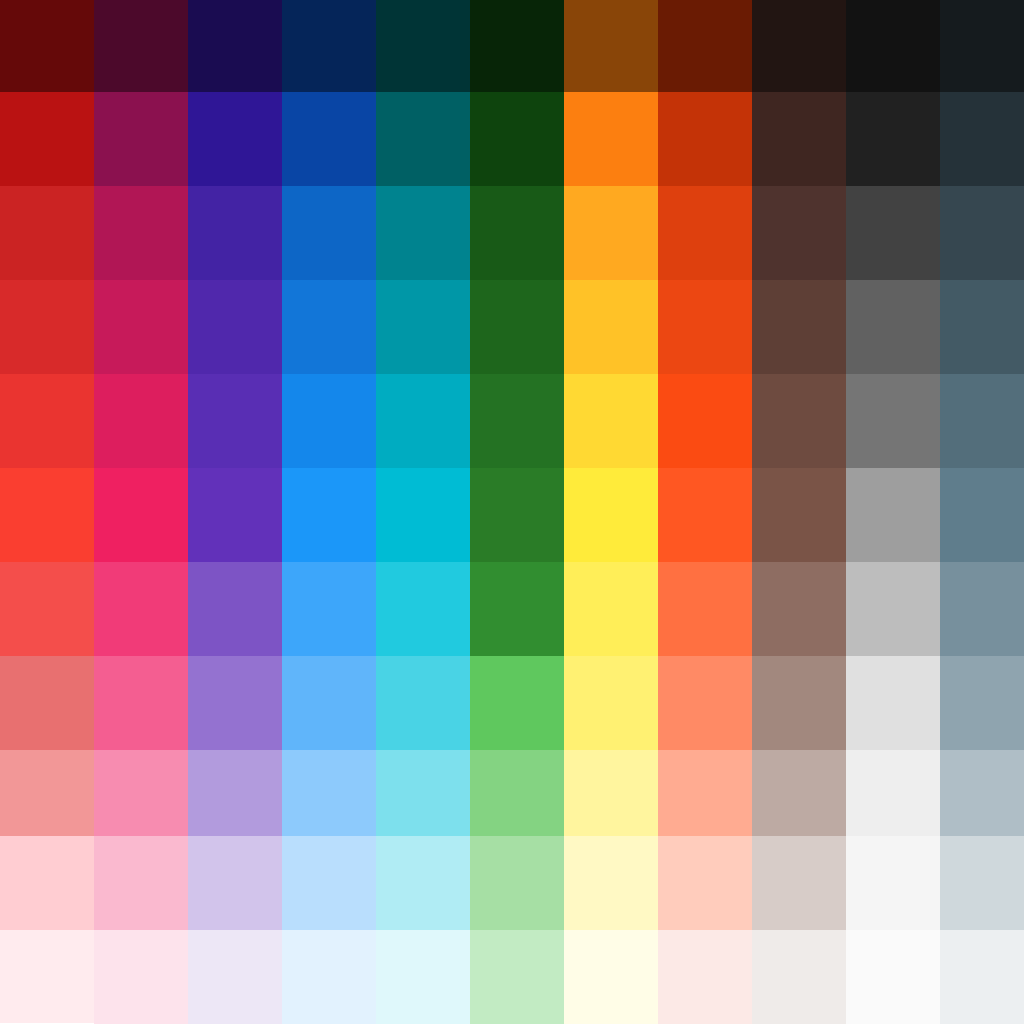
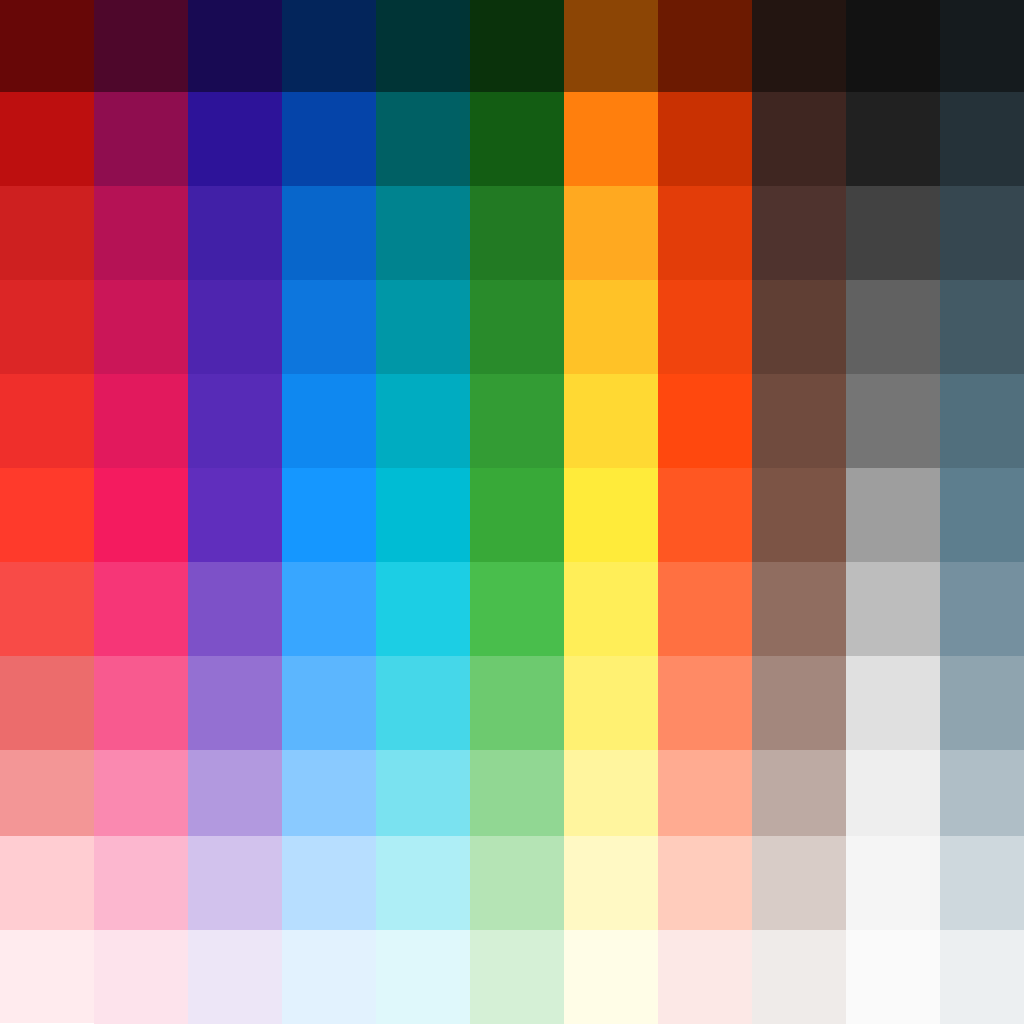
Farm and village look: lighter and cheerful, halfway between the fresh look of before and the painted valley of 6 Oct
Players found yesterday's look too dark, and the owner wants the game to look fun and cheerful: the old colours were nicer but a
little flat, yesterday's too strong and too dark. Exposure 1.32 and a bright sky (1.95) with a slightly warmer sun a little lower
than before (3.45 at y 20), so the shade stays soft; daylight.js keeps the morning and evening rhythm in the same spirit. The grass
keeps its fresh green, a touch lighter, with mottling 1.4 times the old spread (1.8 was too much). palette.png: the original graded
half as strongly as yesterday, then livelier (saturation x1.08, darker greens lighter), raw pixel values, version 20261007; the
village's palette the same way, and its meadow and lake tuned to match the farm. Sandier roads and a bluer pond, halfway from the
old ones. The mood layer keeps only a faint haze and the computer-only edge blur: no dark corners.

Changed region(s): [[0.4375, 0.0625, 0.5625, 0.6562]]

diff --git a/public/game.js b/public/game.js
@@ -214,12 +214,12 @@ async function addScenery(){
   buildScenery({scene,models,mobile:mobileLayout.matches});clearPropsFromMountains();renderer.shadowMap.needsUpdate=true;shootMinimap();
  }catch(error){console.warn('The extra scenery was skipped.',error);}
 }
-// The roads (6 Oct 2026): warm sand, like the paths of the loading screen's painted valley, instead of the pink of the shared
-// palette; one tinted copy of the material for every road, so the pink pigs and flowers keep the palette as it is.
+// The roads (6 Oct 2026, softer on 7 Oct): a warmer, sandier pink, towards the paths of the loading screen's painted valley; one
+// tinted copy of the material for every road, so the pink pigs and flowers keep the palette as it is.
 const roadMaterials=new Map();
 function roadMaterial(material){
  let road=roadMaterials.get(material);
- if(!road){road=material.clone();road.color.setRGB(.88,.74,.58);roadMaterials.set(material,road);}
+ if(!road){road=material.clone();road.color.setRGB(.94,.87,.79);roadMaterials.set(material,road);}
  return road;
 }
 function cloneModel(name,x,z,{width,height,depth,scale=1,rotation=0,y=0}={}){
@@ -274,14 +274,14 @@ function decorate(){
  // Layout zones (public/farm-layout.js): each yard moves as one piece, the fields stay where they are.
  zone('fields');
  // Fresh grass green, wide enough that its edge is never in view: it runs on into the haze however far you pan or zoom out.
- // Set for the warmer, lower sun of 6 Oct 2026 so it looks the same green as before (scene-polish.js adds 7% and the mottling).
- const ground=patch(0,0,600,600,0x8ebf62,0);ground.name='Farm ground';
+ // Set for the light of 7 Oct 2026: the fresh green of before, a touch lighter (scene-polish.js adds 7% and the mottling).
+ const ground=patch(0,0,600,600,0x8cbc58,0);ground.name='Farm ground';
  // The crossing paths keep the four parts of the farm easy to read from the fixed camera.
  zone('exact');
  for(const road of ROADS.slice(0,3))cloneModel('road_001',road.x,road.z,{...roadSize(road),height:road.height,y:road.y});
- zone('fields');patch(2.575,14.4,12.8,31.7,0xaaca6a,.004).name='Crop meadow';
- zone('coop');patch(13,-9.5,15.8,11.6,0xa9bb78,.007);
- zone('mill');patch(-12.5,5.3,8.7,13,0xadbd7c,.004);
+ zone('fields');patch(2.575,14.4,12.8,31.7,0xa3be65,.004).name='Crop meadow';
+ zone('coop');patch(13,-9.5,15.8,11.6,0xa4b472,.007);
+ zone('mill');patch(-12.5,5.3,8.7,13,0xa8b676,.004);
  // Buildings, vehicles and all plants below come from the supplied GLB pack.
  zone('dairy');addBuilding('dairy',-1,-13.2,{width:6.8,rotation:Math.PI/2});
  zone('silo');addUtility('silo','tower_002',5.6,-11.8,{height:6.6});
@@ -1192,22 +1192,23 @@ async function init(){
  try{
   bindUI();updateUI();
   renderer=new THREE.WebGLRenderer({antialias:!mobileLayout.matches,alpha:false,powerPreference:mobileLayout.matches?'low-power':'high-performance'});
-  renderer.setClearColor(0xdfeee2);renderer.outputColorSpace=THREE.SRGBColorSpace;renderer.toneMapping=THREE.NeutralToneMapping;renderer.toneMappingExposure=1.22;
+  renderer.setClearColor(0xdeede6);renderer.outputColorSpace=THREE.SRGBColorSpace;renderer.toneMapping=THREE.NeutralToneMapping;renderer.toneMappingExposure=1.32;
   renderer.shadowMap.enabled=true;renderer.shadowMap.type=THREE.PCFSoftShadowMap;renderer.shadowMap.autoUpdate=false;
   world.appendChild(renderer.domElement);renderer.domElement.setAttribute('aria-label','Interactive farm. Use Tab to move between fields, and Enter to work a field.');
   renderer.domElement.addEventListener('webglcontextlost',e=>{e.preventDefault();ready=false;$('error-message').textContent='The 3D view was interrupted. Reload to return to your saved farm.';$('error').hidden=false;});
   scene=new THREE.Scene();camera=new THREE.OrthographicCamera(-25,25,17,-17,.1,300);   // far enough for the mountains at the edge when zoomed out
-  // Daylight with depth (6 Oct 2026, like the loading screen's painted valley): a soft sky, a warm sun a little lower than before
-  // for longer shadows, and less fill from the sky so the shade reads; the grass keeps its fresh green (the old warm-yellow sky,
-  // sun and haze made the whole valley beige, so the haze stays a light green-white). daylight.js moves it through the day.
-  const hemi=new THREE.HemisphereLight(0xd3e6ff,0x7f8a3a,1.5);scene.add(hemi);
-  const sun=new THREE.DirectionalLight(0xffd9a3,3.95);sun.position.set(-26,18,14);sun.castShadow=true;sun.shadow.mapSize.set(mobileLayout.matches?1024:2048,mobileLayout.matches?1024:2048);sun.shadow.camera.left=-52;sun.shadow.camera.right=52;sun.shadow.camera.top=52;sun.shadow.camera.bottom=-52;sun.shadow.camera.near=1;sun.shadow.camera.far=125;sun.shadow.normalBias=.035;sun.shadow.bias=-.00012;sun.shadow.radius=3;scene.add(sun);scene.add(sun.target);
+  // Sunny, cheerful daylight (7 Oct 2026: the farm should look fun and cheerful; halfway between the fresh light of before and the
+  // painted valley of the loading screen): a bright sky, a slightly warmer sun a little lower than before for longer, soft shadows
+  // (the old warm-yellow sky, sun and haze made the whole valley beige, so the haze stays a light green-white). daylight.js moves it
+  // through the day.
+  const hemi=new THREE.HemisphereLight(0xdcebff,0x778b40,1.95);scene.add(hemi);
+  const sun=new THREE.DirectionalLight(0xffe3b7,3.45);sun.position.set(-26,20,14);sun.castShadow=true;sun.shadow.mapSize.set(mobileLayout.matches?1024:2048,mobileLayout.matches?1024:2048);sun.shadow.camera.left=-52;sun.shadow.camera.right=52;sun.shadow.camera.top=52;sun.shadow.camera.bottom=-52;sun.shadow.camera.near=1;sun.shadow.camera.far=125;sun.shadow.normalBias=.035;sun.shadow.bias=-.00012;sun.shadow.radius=3;scene.add(sun);scene.add(sun.target);
   cropMotion=createCropMotion({scene,reducedMotion});
-  scene.fog=new THREE.Fog(0xdfeee2,60,150);
+  scene.fog=new THREE.Fog(0xdeede6,60,150);
   let loaded=0;
   if(villageWorld){
    // The village is three times as wide as the farm: fog further out, and the sun's shadows over all of it.
-   scene.fog=new THREE.Fog(0xdfeee2,105,180);sun.position.multiplyScalar(3);sun.shadow.camera.left=sun.shadow.camera.bottom=-95;sun.shadow.camera.right=sun.shadow.camera.top=95;sun.shadow.camera.far=320;sun.shadow.camera.updateProjectionMatrix();
+   scene.fog=new THREE.Fog(0xdeede6,105,180);sun.position.multiplyScalar(3);sun.shadow.camera.left=sun.shadow.camera.bottom=-95;sun.shadow.camera.right=sun.shadow.camera.top=95;sun.shadow.camera.far=320;sun.shadow.camera.updateProjectionMatrix();
    // The same shadow map over almost twice the width makes each shadow texel twice as big (0.09 units, 0.19 on phones): the farm's
    // normal bias (.035) left stripes over the rocks, walls and roofs (shadow acne). 1.3 texels of it (Oct 2026): .12, .24 on phones.
    sun.shadow.normalBias=1.3*190/sun.shadow.mapSize.x;

diff --git a/public/village-scene.js b/public/village-scene.js
@@ -23,18 +23,21 @@ export const VILLAGE_UTILITIES=Object.freeze({
 // The cloud shadows' sheet (farm-atmosphere.js) just above the village's highest ground (hills to 12.7, rocks and trees to 15.7), so
 // the clouds drift over the whole valley; on the farm's height (.28) it lay under the hills. Only the mountain tops rise through it.
 export const VILLAGE_CLOUD_HEIGHT=16;
-// The look of the loading screen's painted village (6 Oct 2026): fresh green meadows, deeper trees and a clear blue lake.
+// The look of the loading screen's painted village (6 Oct 2026): fresh green meadows, deeper trees and a clear blue lake; since
+// 7 Oct 2026 as sunny and cheerful as the farm (its light, its palette grade: livelier trees, and a lighter blue lake).
 // The pack's hills and the grass edges of its paths sit on the seam between a green and a yellow cell of the palette (564 of
 // 1024 px across, the cells are 94 px), so the texture filter painted them two-fifths yellow: the lime meadows. They now read
 // the palette's white cell and carry their green in the vertex colours, times the baked shade, one green per row of the pack's
 // greens (row 4 its deepest, 7 its lightest). Nothing else in the village reads that seam.
-// The greens are the farm's grass (6 Oct 2026): the sunlit meadow renders like the farm's lit grass in the same light (about
-// #98c14e, hue 81, on desktop and phone), one valley; the pack's own greens made a saturated golf-course green (hue 97) beside
-// it. Lighter than the farm's ground colour (game.js), as the baked shade darkens them again; the trees stay the deeper green.
-export const VILLAGE_GRASS=Object.freeze({4:0x83bb5c,5:0x96cb66,6:0xabd574,7:0xbedf83});
+// The greens are the farm's grass: the sunlit meadow renders like the farm's lit grass in the same light, one valley; the pack's
+// own greens made a saturated golf-course green (hue 97) beside it. Set again for the farm's sunny light of 7 Oct 2026: at noon
+// the meadow renders #a3d259 (hue 83, lightness .59) against the farm's #a1d253 (hue 83, .58), on phones #a1d058 against #a1cf5b.
+// Lighter than the farm's ground colour (game.js), as the baked shade darkens them again; the trees keep the palette's green.
+export const VILLAGE_GRASS=Object.freeze({4:0x82b656,5:0x95c560,6:0xaacf6d,7:0xbcd97b});
 // The mountains' haze is the farm's (scene-polish.js, 0xe2ead0) since 6 Oct 2026, so both worlds' mountains fade into the same
-// air: the cool sky white before it faded them toward blue against the valley's green-white sky.
-export const VILLAGE_LAKE=0x2898f2,VILLAGE_HAZE=0xe2ead0;
+// air: the cool sky white before it faded them toward blue against the valley's green-white sky. The lake (7 Oct 2026) is halfway
+// between the pack's pale cyan (0x80deea) and the clear blue of 6 Oct (0x2898f2), as the farm's pond went from mint to 0x4eb1d2.
+export const VILLAGE_LAKE=0x54bbee,VILLAGE_HAZE=0xe2ead0;
 const PALETTE_PX=1024,CELL=94,SEAM=564,WHITE=[893/PALETTE_PX,982/PALETTE_PX];
 const grassTints=new Map(Object.entries(VILLAGE_GRASS).map(([row,hex])=>[Number(row),new THREE.Color(hex)]));   // linear, as vertex colours are
 function freshGrass(g){
@@ -54,8 +57,8 @@ export async function loadVillage({onProgress}={}){
   loader.loadAsync('/assets/village/village.glb',event=>{if(event.total)onProgress?.(event.loaded/event.total);}),
   fetch('/assets/village/village-layout.json').then(r=>{if(!r.ok)throw new Error('The village could not load.');return r.json();}),
   // village.glb carries its own copy of the pack's palette; the village paints from village-palette.png instead (6 Oct 2026),
-  // the one its props on the farm use, graded like the farm's palette (deeper greens) and versioned past a day-old cache. Without
-  // it the village keeps its own copy.
+  // the one its props on the farm use, graded like the farm's palette (7 Oct 2026: livelier greens, a touch fuller colours) and
+  // versioned past a day-old cache. Without it the village keeps its own copy.
   new THREE.ImageLoader().loadAsync(`/assets/models/village-palette.png?v=${PALETTE_VERSION}`).catch(()=>null)
  ]);
  if(palette){const maps=new Set();gltf.scene.traverse(o=>{if(o.isMesh&&o.material.map)maps.add(o.material.map);});for(const map of maps){map.image?.close?.();map.image=palette;map.needsUpdate=true;}}
@@ -69,7 +72,7 @@ export async function loadVillage({onProgress}={}){
   if(s){const c=new Uint8Array(s.count*4);for(let i=0;i<s.count;i++){c[i*4]=c[i*4+1]=c[i*4+2]=Math.round(s.getX(i)*255);c[i*4+3]=255;}g.setAttribute('color',new THREE.BufferAttribute(c,4,true));g.deleteAttribute('_shade');freshGrass(g);}
   o.material.roughness=1;o.material.metalness=0;o.material.vertexColors||=Boolean(g.getAttribute('color'));
   // The pack's water (its "Transparent" material: the lake and the stream down the mountains) was the palette's pale cyan at half
-  // strength, a milky green over the lake bed: now a clear blue with a little of the sun on it, like the farm's pond.
+  // strength, a milky green over the lake bed: now a sunny blue with a little of the sun on it, like the farm's pond.
   if(o.material.name==='Transparent'){o.material.map=null;o.material.color.setHex(VILLAGE_LAKE);o.material.opacity=.85;o.material.roughness=.35;}
  });
  // The farm's haze colour at half its strength (6 Oct 2026): the village's grey mountains then render in the farm's mountain tone

diff --git a/public/styles.css b/public/styles.css
@@ -19,14 +19,14 @@ b,strong{font-weight:700}
 /* The game frame scrolls but never zooms as a page; the 3D field (canvas, touch-action:none) handles its own pinch (src/page-zoom.js). */
 html,body{touch-action:pan-x pan-y}
 *{box-sizing:border-box}body{margin:0}button{font:inherit;color:inherit;cursor:pointer;-webkit-tap-highlight-color:transparent}button:disabled{cursor:default}button:focus-visible{outline:3px solid #e4a530;outline-offset:4px}button,progress{touch-action:manipulation}button svg{width:21px;height:21px;stroke-width:1.8}h1,h2,h3,p{margin:0}button{transition:background .15s,box-shadow .15s}button:hover:not(:disabled){filter:brightness(1.03)}button:active:not(:disabled){filter:brightness(.97)}[hidden]{display:none!important}#game{height:100svh;min-height:650px;position:relative;overflow:hidden}#world{position:absolute;inset:0;background:#cab091}#world canvas{display:block;outline:none;touch-action:none}
-/* The farm's mood, like the loading screen's painted valley (6 Oct 2026), on the farm and in the village: a soft warm haze towards the
-   far side (the top of the screen is the farthest away), deeper green corners and, on computers only, a gentle blur along the top and
-   bottom edges. One layer right on the 3D view: it comes before every label, button and window in the page and has no z-index, so
-   all of them stay sharp on top of it. The map picture and the farm photo are copied from the 3D view itself, so neither has it. The
-   haze is barely there (a stronger one turned the top of the valley milky and khaki) and the corners are green, so the grass keeps
-   its green. The blur stops above 1920 px wide: on a big retina screen it costs more each frame than it is worth. Phones, tablets and the apps keep the haze and the corners
-   (one still picture, painted once) but never the blur, which is redone with every frame of the farm. */
-.vignette{position:absolute;inset:0;pointer-events:none;background:linear-gradient(180deg,#fbf6e21a,#fbf6e208 15%,#fbf6e200 34%),radial-gradient(ellipse 75% 70% at 50% 52%,#0e280c00 58%,#0e280c3a),radial-gradient(ellipse 78% 72% at 50% 50%,transparent 58%,#22301c24 88%,#1a26143d 100%)}
+/* The farm's mood (6 Oct 2026, lighter on 7 Oct: the farm should look fun and cheerful), on the farm and in the village: a faint warm
+   haze towards the far side (the top of the screen is the farthest away) and, on computers only, a gentle blur along the top and
+   bottom edges, like a toy landscape. No dark corners: they made the farm look gloomy. One layer right on the 3D view: it comes
+   before every label, button and window in the page and has no z-index, so all of them stay sharp on top of it. The map picture and
+   the farm photo are copied from the 3D view itself, so neither has it. The haze is barely there (a stronger one turned the top of
+   the valley milky and khaki). The blur stops above 1920 px wide: on a big retina screen it costs more each frame than it is worth.
+   Phones, tablets and the apps keep the haze (one still picture, painted once) but never the blur, which is redone every frame. */
+.vignette{position:absolute;inset:0;pointer-events:none;background:linear-gradient(180deg,#fbf6e20d,#fbf6e204 15%,#fbf6e200 34%)}
 @media(pointer:fine) and (hover:hover) and (min-width:901px) and (max-width:1920px){
  html:not([data-app]):not([data-app-mode]) .vignette::before,html:not([data-app]):not([data-app-mode]) .vignette::after{content:'';position:absolute;left:0;right:0;-webkit-backdrop-filter:blur(2.5px);backdrop-filter:blur(2.5px)}
  html:not([data-app]):not([data-app-mode]) .vignette::before{top:0;height:16%;-webkit-mask-image:linear-gradient(#000,#0000);mask-image:linear-gradient(#000,#0000)}

diff --git a/public/daylight.js b/public/daylight.js
@@ -1,11 +1,11 @@
 // The farm's light through the day, by the farmer's local time (used by farm-atmosphere.js): fresh in the morning, warmer towards
 // the evening, always daylight. Sun and sky colours, their strength, the haze, and how far the sun has turned from noon (radians).
 // The light through the day (local time). Nights borrow the morning, so the farm is never dark.
-// 6 Oct 2026, the look of the loading screen's painted valley: a warmer, stronger sun and less fill from the sky, so shadows and
-// the deep greens of the trees give the farm depth; the grass itself keeps its green (game.js sets it for this light).
-const MORNING={sun:0xffe6bf,sunI:3.7,sky:0xd8ebff,ground:0x7a8a3e,hemiI:1.6,haze:0xdcedeb,turn:-.35};
-const NOON={sun:0xffd9a3,sunI:3.95,sky:0xd3e6ff,ground:0x7f8a3a,hemiI:1.5,haze:0xdfeee2,turn:0};
-const EVENING={sun:0xffc988,sunI:4,sky:0xe6dcef,ground:0x84883a,hemiI:1.45,haze:0xefe4cf,turn:.35};
+// 7 Oct 2026: the farm should look fun and cheerful. Halfway between the fresh daylight of before (a little flat) and the painted
+// valley of 6 Oct (too dark and too strong): a slightly warmer sun and a bright sky, so the shade is soft and the farm stays sunny.
+const MORNING={sun:0xffedce,sunI:3.25,sky:0xddeeff,ground:0x758b42,hemiI:2.05,haze:0xdcedee,turn:-.35};
+const NOON={sun:0xffe3b7,sunI:3.45,sky:0xdcebff,ground:0x778b40,hemiI:1.95,haze:0xdeede6,turn:0};
+const EVENING={sun:0xffd094,sunI:3.5,sky:0xece3f1,ground:0x7e8a40,hemiI:1.9,haze:0xefe4d3,turn:.35};
 const DAY=[[0,MORNING],[9,MORNING],[12,NOON],[16,NOON],[19,EVENING],[21,EVENING],[23,MORNING],[24,MORNING]];
 const mixHex=(a,b,t)=>[16,8,0].reduce((hex,shift)=>{const x=a>>shift&255,y=b>>shift&255;return hex|Math.round(x+(y-x)*t)<<shift;},0);
 export function daylightAt(hour){

diff --git a/public/farm-life.js b/public/farm-life.js
@@ -77,9 +77,9 @@ export function createFarmLife({scene,cloneModel,patch,state,onOpen,reducedMotio
  zone('pond');
  const shoreAt=(deg,k)=>[POND.x+POND.rx*k*Math.cos(deg*Math.PI/180),POND.z+POND.rz*k*Math.sin(deg*Math.PI/180)];
  const oval=(rx,rz,segments,material,y)=>{const m=new THREE.Mesh(new THREE.CircleGeometry(1,segments),material);m.rotation.x=-Math.PI/2;m.scale.set(rx,rz,1);const [px,pz]=place(POND.x,POND.z);m.position.set(px,y,pz);scene.add(m);};
- // Clear blue water with a warm sandy bank (6 Oct 2026, like the pond of the loading screen's painted valley; it was mint).
- oval(POND.rx+.6,POND.rz+.6,24,new THREE.MeshStandardMaterial({color:0xc2a77a,roughness:1}),.019);
- oval(POND.rx,POND.rz,32,new THREE.MeshStandardMaterial({color:0x3aa3e3,roughness:.35,metalness:.05}),.027);
+ // Bluer water with a warmer sandy bank (7 Oct 2026, halfway from the old mint to the clear blue of the loading screen's pond).
+ oval(POND.rx+.6,POND.rz+.6,24,new THREE.MeshStandardMaterial({color:0xbbaa82,roughness:1}),.019);
+ oval(POND.rx,POND.rz,32,new THREE.MeshStandardMaterial({color:0x4eb1d2,roughness:.35,metalness:.05}),.027);
  scenery('village_pier_001',POND.x+4.8,POND.z+3,{width:3.4,rotation:-.55,y:.02});
  scenery('village_boat_001',POND.x+3.2,POND.z+4,{width:2.2,rotation:1,y:.03});
  scenery('village_rowboat_001',POND.x-2.6,POND.z-1.8,{width:2.6,rotation:.4,y:.03});

diff --git a/public/scene-polish.js b/public/scene-polish.js
@@ -36,11 +36,11 @@ function groundTexture(size,rand,anisotropy,tile){
  const n1=tileableNoise(size,4,rand),n2=tileableNoise(size,9,rand),n3=tileableNoise(size,24,rand);
  const canvas=makeCanvas(size),ctx=canvas.getContext('2d'),img=ctx.createImageData(size,size);
  for(let i=0;i<size*size;i++){
-  // Deeper mottling (6 Oct 2026): light and dark patches 1.8 times as far apart, so the meadow has depth instead of one flat green.
-  const v=.5*n1[i]+.3*n2[i]+.2*n3[i],shade=.784+.342*clamp01((v-.25)*2);
-  img.data[i*4]=Math.min(255,shade*(1+(n2[i]-.5)*.216)*255);
+  // Deeper mottling (7 Oct 2026): light and dark patches 1.4 times as far apart as before, so the meadow is less flat (1.8 was too much).
+  const v=.5*n1[i]+.3*n2[i]+.2*n3[i],shade=.822+.266*clamp01((v-.25)*2);
+  img.data[i*4]=Math.min(255,shade*(1+(n2[i]-.5)*.168)*255);
   img.data[i*4+1]=Math.min(255,shade*255);
-  img.data[i*4+2]=Math.min(255,shade*(1-(n1[i]-.5)*.36)*255);
+  img.data[i*4+2]=Math.min(255,shade*(1-(n1[i]-.5)*.28)*255);
   img.data[i*4+3]=255;
  }
  ctx.putImageData(img,0,0);

diff --git a/public/model-atlas.js b/public/model-atlas.js
@@ -21,9 +21,9 @@ let base=null,soft=null,villageBase=null;
 // asked for once more past the browser's cache (as fetchModel in game.js does for a model); if it still fails, the model fails to
 // load, and game.js puts its invisible stand-in there instead of an unpainted model.
 const PALETTE=/(^|\/)(village-)?palette\.png$/;
-// The palettes' colours change now and then (6 Oct 2026: deeper greens, like the loading screen's painted valley). /assets/ is kept
-// for a day, so the version makes a returning farmer fetch the new palette at once instead of painting with yesterday's.
-export const PALETTE_VERSION='20261006';
+// The palettes' colours change now and then (6 Oct 2026: deeper greens, like the loading screen's painted valley; 7 Oct: half of
+// that). /assets/ is kept for a day, so the version makes a returning farmer fetch the new palette at once instead of yesterday's.
+export const PALETTE_VERSION='20261007';
 const palettes=new Map();
 function paletteImage(loader,url){
  let image=palettes.get(url);
